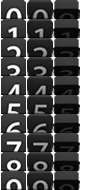
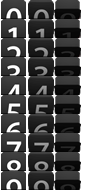
added confirmation dialogs for checkin

diff --git a/www/assets/js/pages/dashboard.js b/www/assets/js/pages/dashboard.js
@@ -19,23 +19,57 @@ jq(function($) {
         });
     }
 
+    $('.party_group').entwine({
+        phase: function() {
+            return this.attr('data-phase');
+        },
+        selectedPartyID: function() {
+            var attr = this.attr('data-selected-party-id');
+            if (attr == '')
+                return null;
+            else
+                return parseInt(attr);
+        }
+    });
+
+    var PartyGroupPhase = {
+        EarlyCheckin: 'EarlyCheckin',
+        Checkin: 'Checkin',
+        CheckinsClosed: 'CheckinsClosed'
+    };
+
     $('.party_group label, .party_group input:radio').entwine({
         onclick: function(e) {
             e.preventDefault();
             e.stopPropagation();
-            
+
+            var partyGroup = this.closest('.party_group');
             var radio = this.is('input:radio') ? this : this.find('input:radio');
-            
-            WhoWentOut.Dialog.Show({
-                title: 'Are you sure?',
-                body: 'Are you sure you want to do this?',
-                buttons: 'yesno',
-                actions: {
-                    y: function() {
-                        checkin_to_party( radio.val() );
+            var phase = partyGroup.phase();
+            var selectedPartyID = partyGroup.selectedPartyID();
+
+            if (phase == PartyGroupPhase.EarlyCheckin) {
+                checkin_to_party(radio.val());
+            }
+            else if (phase == PartyGroupPhase.Checkin && !selectedPartyID) {
+                WhoWentOut.Dialog.Show({
+                    title: 'Are you sure?',
+                    body: "Are you sure? You can't change once you've selected.",
+                    buttons: 'yesno',
+                    actions: {
+                        y: function() {
+                            checkin_to_party(radio.val());
+                        }
                     }
-                }
-            });
+                });
+            }
+            else if (phase == PartyGroupPhase.Checkin && selectedPartyID) {
+                WhoWentOut.Dialog.Show({
+                    title: "Can't Change",
+                    body: "You can't change where you check-in to during the check-in phase.",
+                    buttons: 'ok'
+                });
+            }
         }
     });
 

diff --git a/www/assets/js/widgets/jquery.countdowntimer.js b/www/assets/js/widgets/jquery.countdowntimer.js
@@ -22,7 +22,7 @@
 //    var topFrameImage = '/assets/images/digits_top.png';
 //    var bottomFrameImage = '/assets/images/digits_bottom.png';
 
-    var frameWidth = 26.5;
+    var frameWidth = 27;
     var topFrameHeight = 19;
     var bottomFrameHeight = 19;
     var topFrameImage = '/assets/images/digits_top_small.png';

diff --git a/whowentout/modules/checkin/party_group.view.php b/whowentout/modules/checkin/party_group.view.php
@@ -3,7 +3,8 @@
 <?php $checkin_engine = new CheckinEngine(); ?>
 <?php $phase = $party_group->get_phase(); ?>
 <div class="party_group <?= 'party_group_' . $party_group->get_date()->format('Ymd') ?> <?= $phase ?>"
-     data-phase="<?= $phase ?>">
+     data-phase="<?= $phase ?>"
+     data-selected-party-id="<?= $selected_party ? $selected_party->id : '' ?>">
 
     <h2>
         <?= $party_group->get_date()->format('l, M. jS') ?>
